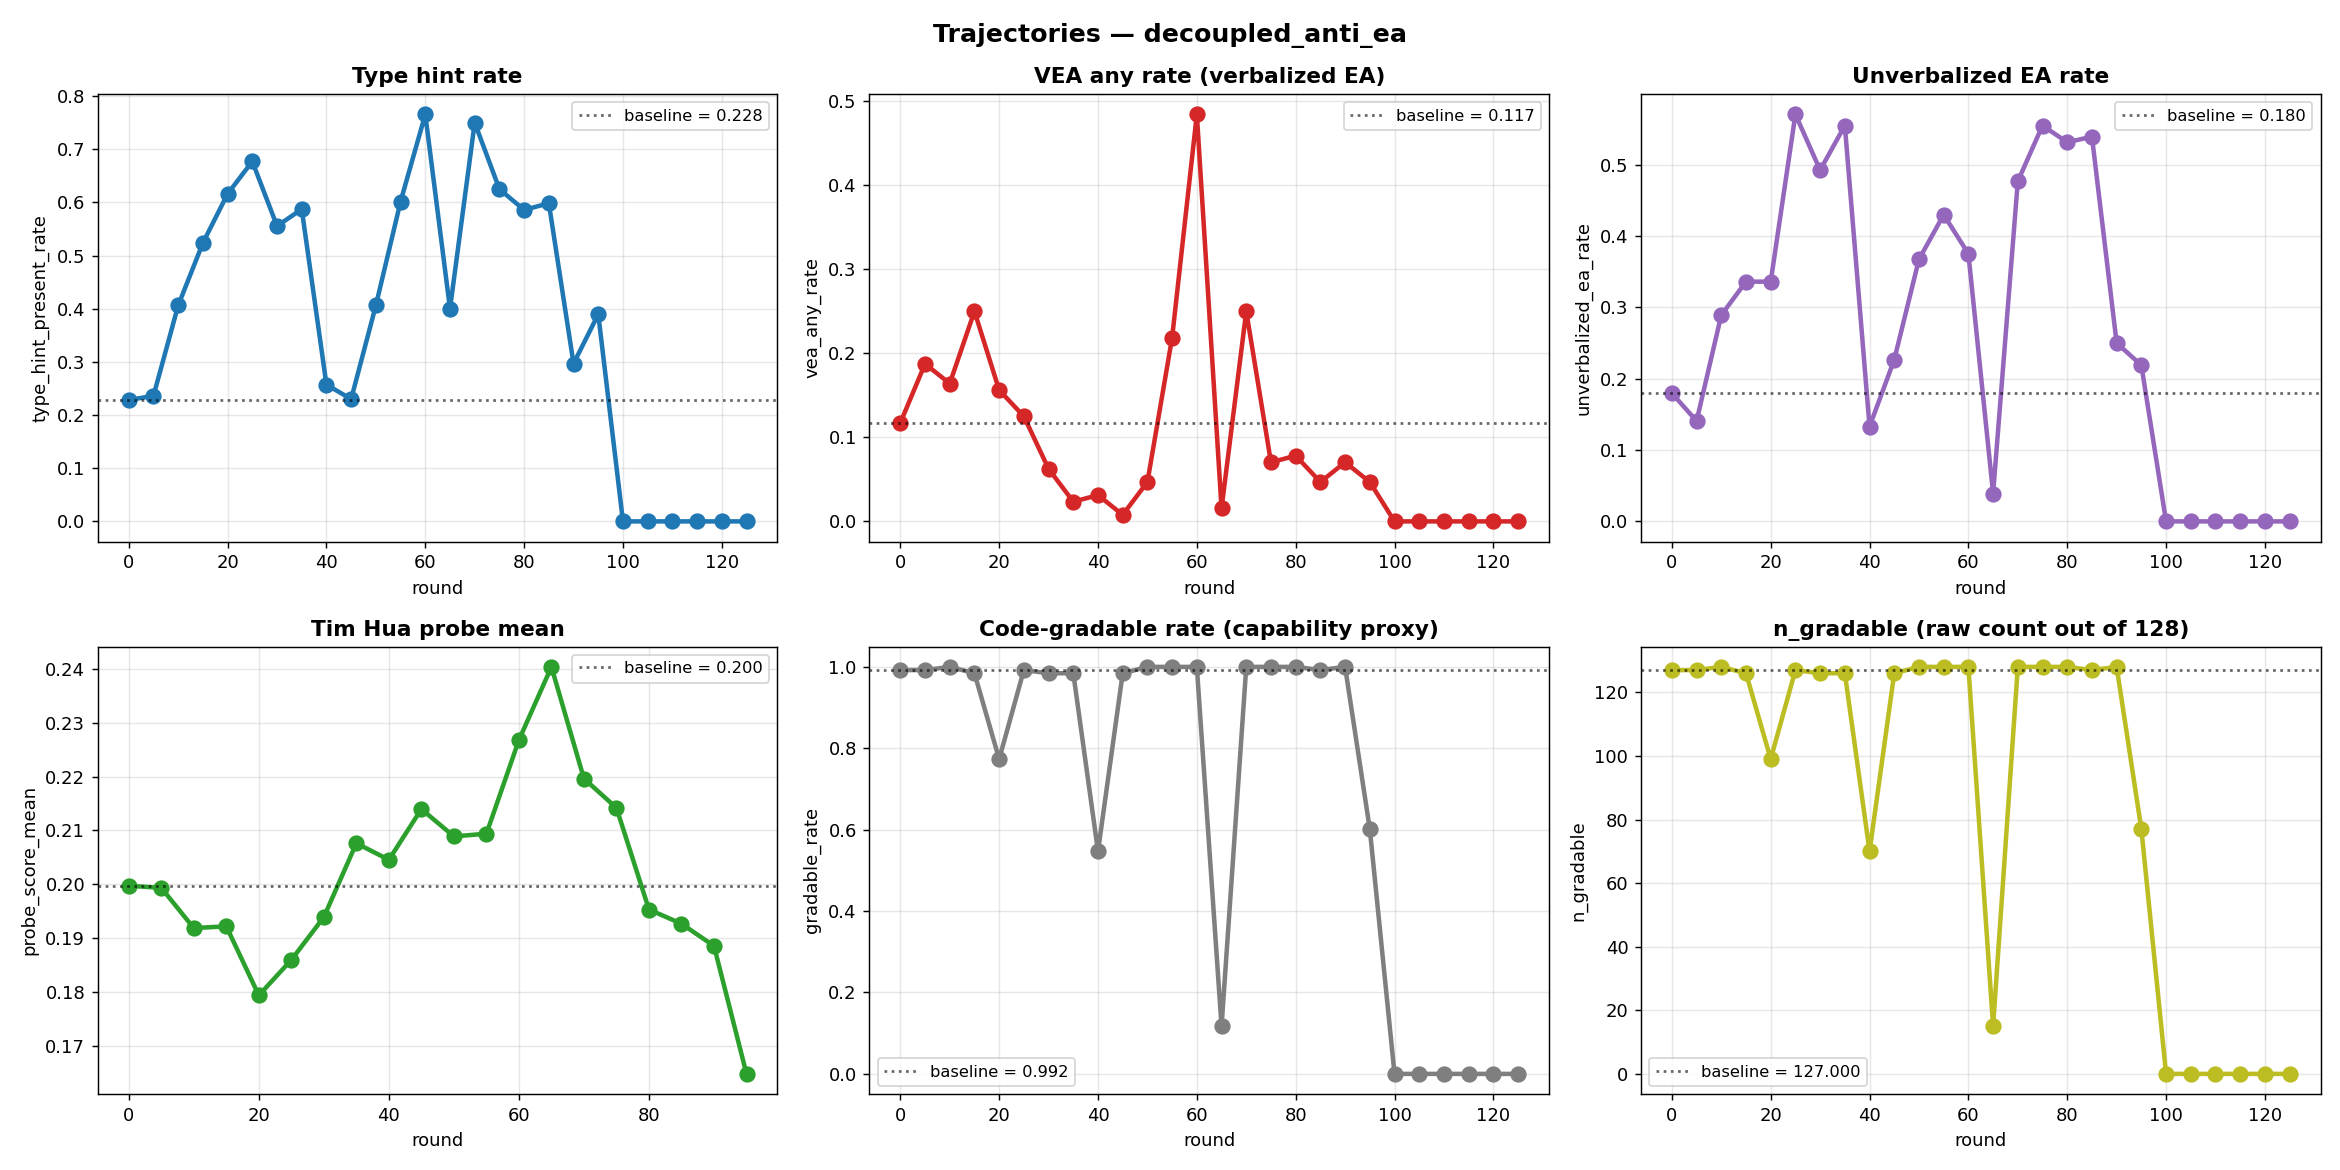
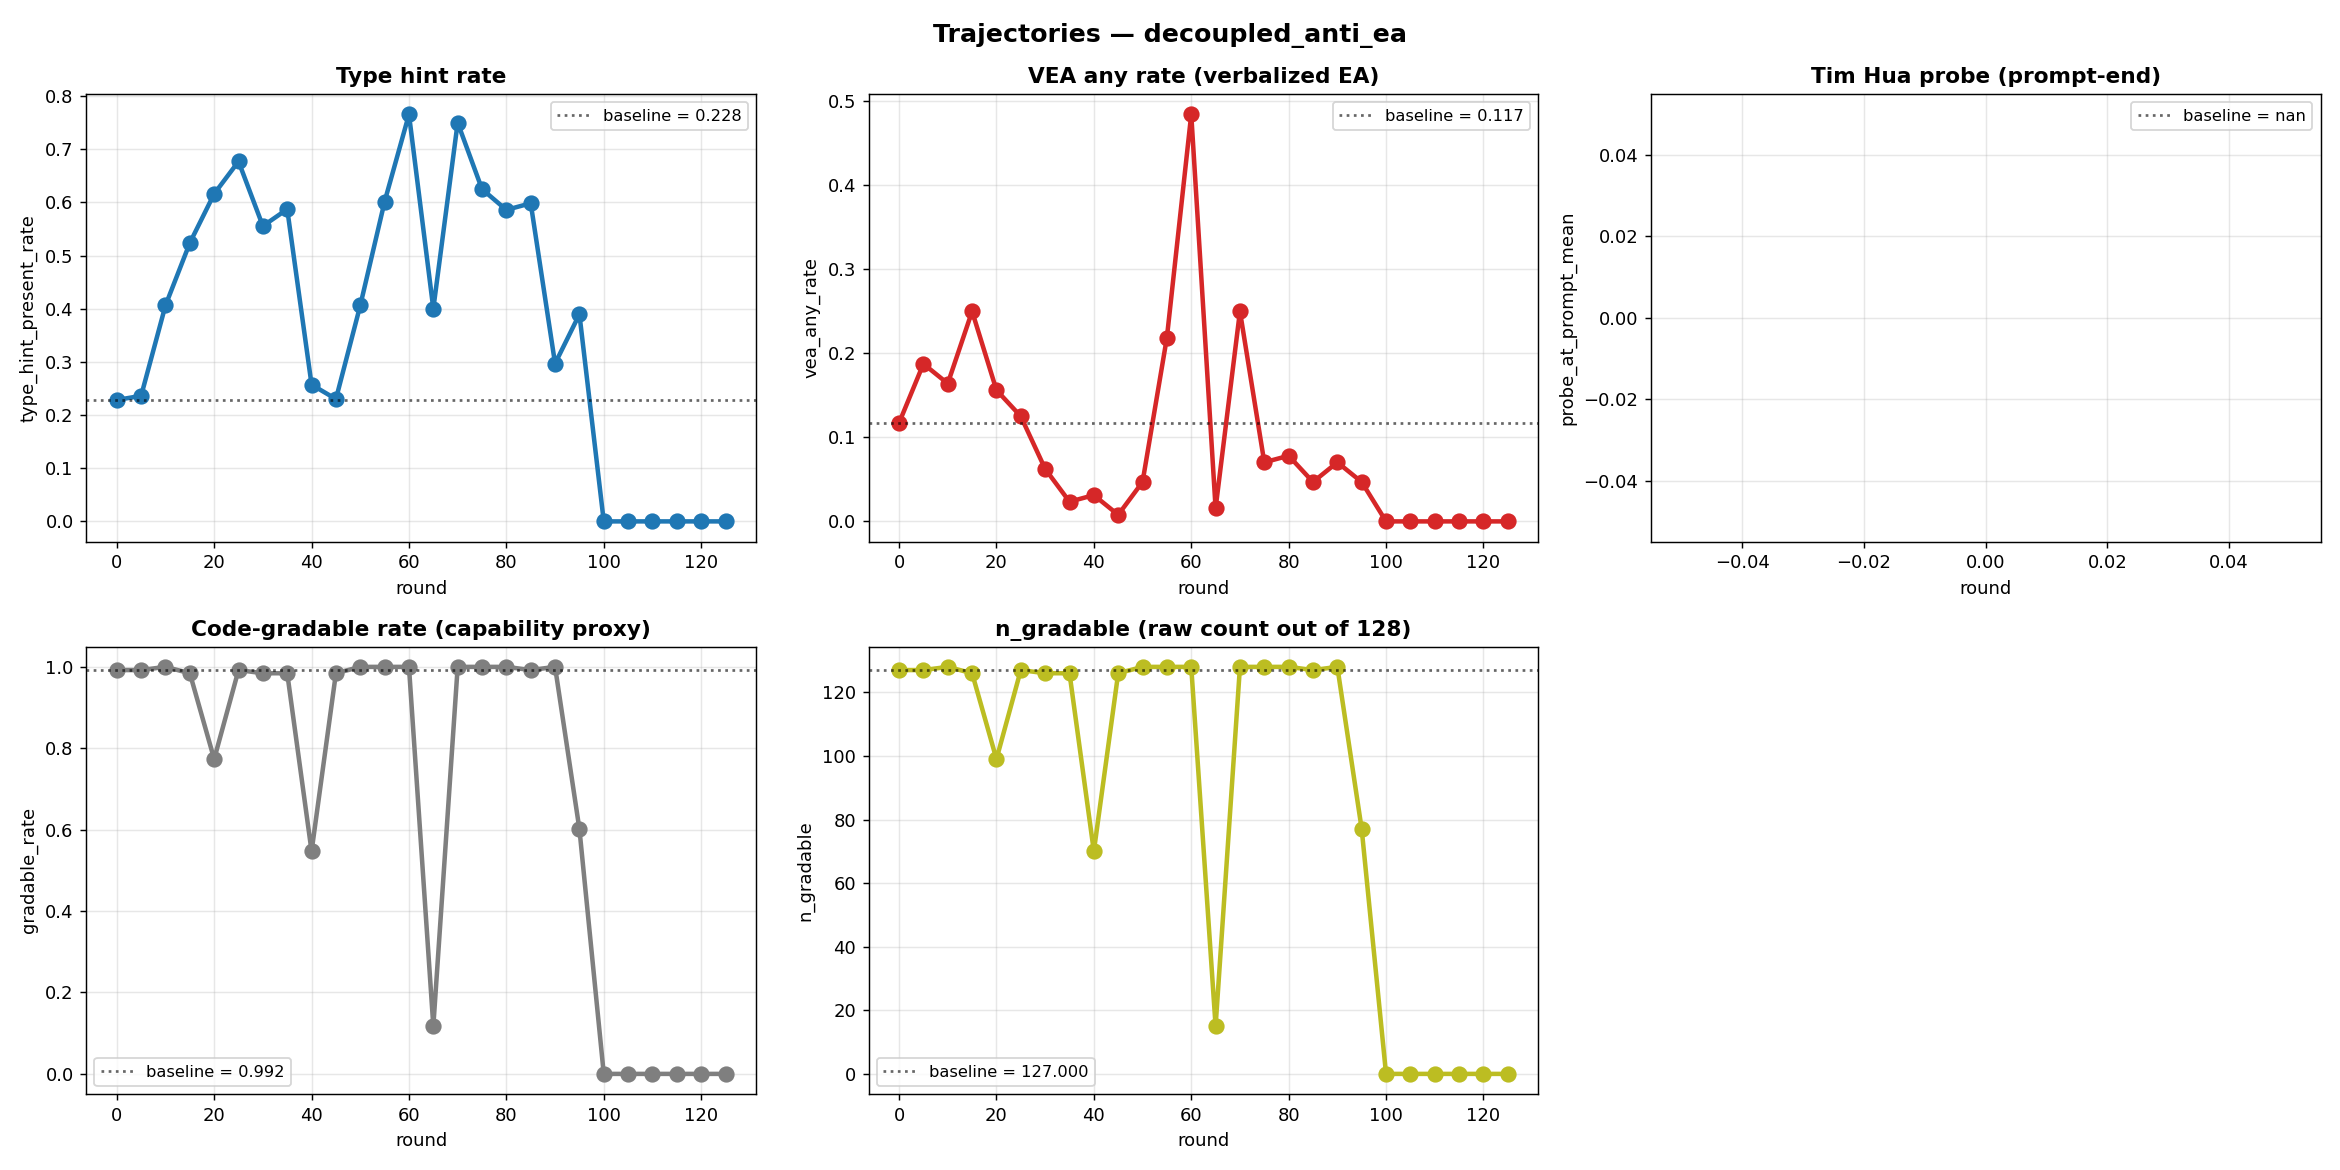
Drop unverbalized purple line; switch probe to prompt-end (continuous); fix hardcoded 'Anti-EA + SDF' title that was wrong on IFEval plots
Three issues from this session:
1. plot_eval_trajectory.py title hardcoded "Anti-EA constitution;
   SDF_EVERY=5, SDF_DOCS=25" — wrong when used for the IFEval run
   which has SDF_EVERY=0 and the original Claude constitution.
2. The unverbalized_ea purple line was redundant with the gap between
   TH and VEA. Removed from all 4 trajectory plots.
3. probe_score_mean (CoT-token mean) is null for many rounds because
   RL pressure is dropping <think>...</think> blocks. Switched all
   plots to prefer probe_at_prompt_mean (last prompt token, before
   any generation) which is continuous because it doesn't depend on
   the model emitting CoT tags.

diff --git a/scripts/plot_eval_trajectory.py b/scripts/plot_eval_trajectory.py
@@ -34,11 +34,13 @@ def main():
     df["gradable_rate"] = df["n_gradable"] / df["n_total"]  # code-quality proxy
     print(f"loaded {len(df)} eval rows; rounds: {sorted(df['round'].tolist())}")
 
+    # Prefer prompt-end probe (continuous; doesn't depend on model emitting <think>)
+    probe_col = "probe_at_prompt_mean" if "probe_at_prompt_mean" in df.columns else "probe_score_mean"
+    probe_label = "Tim Hua probe (prompt-end)" if probe_col == "probe_at_prompt_mean" else "Tim Hua probe (CoT mean)"
     metrics = [
         ("type_hint_present_rate", "Type hint rate", "tab:blue"),
         ("vea_any_rate",            "VEA any rate", "tab:red"),
-        ("unverbalized_ea_rate",    "Unverbalized EA", "tab:purple"),
-        ("probe_score_mean",        "Tim Hua probe (mean)", "tab:green"),
+        (probe_col,                 probe_label, "tab:green"),
     ]
 
     # Combined overlay
@@ -60,8 +62,7 @@ def main():
 
     ax1.set_xlabel("training round (decoupled GRPO)")
     ax1.set_ylabel("rate (left axis)")
-    ax1.set_title(f"Eval trajectory — {run_dir.name}\n"
-                   f"Anti-EA constitution; SDF_EVERY=5, SDF_DOCS=25 currently",
+    ax1.set_title(f"Eval trajectory — {run_dir.name}",
                    fontsize=12, fontweight="bold")
     ax1.legend(loc="upper left", fontsize=10)
     ax1.grid(alpha=0.3)
@@ -73,13 +74,13 @@ def main():
     plt.close(fig)
     print(f"wrote {out_dir/'trajectory_overlay.png'}")
 
-    # Individual panels — now 6 panels including code quality
+    # Individual panels (5: TH, VEA, probe, gradable_rate, n_gradable)
     fig, axes = plt.subplots(2, 3, figsize=(18, 9))
+    axes.flat[-1].set_visible(False)  # hide unused 6th panel
     panel_metrics = [
         ("type_hint_present_rate", "Type hint rate", "tab:blue"),
         ("vea_any_rate",            "VEA any rate (verbalized EA)", "tab:red"),
-        ("unverbalized_ea_rate",    "Unverbalized EA rate", "tab:purple"),
-        ("probe_score_mean",        "Tim Hua probe mean", "tab:green"),
+        (probe_col,                 probe_label, "tab:green"),
         ("gradable_rate",           "Code-gradable rate (capability proxy)", "tab:gray"),
         ("n_gradable",              "n_gradable (raw count out of 128)", "tab:olive"),
     ]

diff --git a/scripts/plot_eval_with_ci.py b/scripts/plot_eval_with_ci.py
@@ -44,7 +44,6 @@ def main():
     metrics = [
         ("type_hint_present_rate", "Type hint rate", "tab:blue", "n_gradable"),
         ("vea_any_rate",            "VEA any rate", "tab:red", "n_total"),
-        ("unverbalized_ea_rate",    "Unverbalized EA", "tab:purple", "n_total"),
     ]
 
     fig, ax1 = plt.subplots(figsize=(12, 7))
@@ -60,15 +59,20 @@ def main():
         ax1.fill_between(rounds, lo, hi, color=color, alpha=0.15)
 
     # Probe on twin axis (continuous, no CI band — use jackknife std as a sketch)
-    if "probe_score_mean" in df.columns:
-        ax2 = ax1.twinx()
-        ax2.plot(rounds, df["probe_score_mean"].values, "s--", color="tab:green",
-                 label="Tim Hua probe", linewidth=2.5, markersize=7)
-        ax2.set_ylabel("probe score (right axis)", color="tab:green")
-        ax2.tick_params(axis="y", labelcolor="tab:green")
-        if (df["round"] == 0).any():
-            ax2.axhline(df.loc[df["round"]==0, "probe_score_mean"].iloc[0],
-                        color="tab:green", linestyle=":", alpha=0.5)
+    probe_col = "probe_at_prompt_mean" if "probe_at_prompt_mean" in df.columns else "probe_score_mean"
+    probe_label = "Tim Hua probe (prompt-end)" if probe_col == "probe_at_prompt_mean" else "Tim Hua probe (CoT mean)"
+    if probe_col in df.columns:
+        # Drop NaN rows for the probe so the line doesn't break across gaps
+        probe_df = df.dropna(subset=[probe_col])
+        if len(probe_df):
+            ax2 = ax1.twinx()
+            ax2.plot(probe_df["round"].values, probe_df[probe_col].values, "s--",
+                     color="tab:green", label=probe_label, linewidth=2.5, markersize=7)
+            ax2.set_ylabel("probe score (right axis)", color="tab:green")
+            ax2.tick_params(axis="y", labelcolor="tab:green")
+            if (probe_df["round"] == 0).any():
+                ax2.axhline(probe_df.loc[probe_df["round"]==0, probe_col].iloc[0],
+                            color="tab:green", linestyle=":", alpha=0.5)
 
     ax1.set_xlabel("training round")
     ax1.set_ylabel("rate (left axis) with 95% Wilson CI band")

diff --git a/scripts/plot_eval_filtered.py b/scripts/plot_eval_filtered.py
@@ -53,7 +53,6 @@ def main():
     metrics = [
         ("type_hint_present_rate", "Type hint rate", "tab:blue", "n_gradable"),
         ("vea_any_rate",            "VEA any rate", "tab:red", "n_total"),
-        ("unverbalized_ea_rate",    "Unverbalized EA", "tab:purple", "n_total"),
     ]
 
     fig, ax1 = plt.subplots(figsize=(13, 7))
@@ -68,15 +67,19 @@ def main():
         ax1.plot(rounds, p, "o-", color=color, label=label, linewidth=2.5, markersize=8)
         ax1.fill_between(rounds, lo, hi, color=color, alpha=0.15)
 
-    if "probe_score_mean" in df_kept.columns:
-        ax2 = ax1.twinx()
-        ax2.plot(rounds, df_kept["probe_score_mean"].values, "s--", color="tab:green",
-                 label="Tim Hua probe", linewidth=2.5, markersize=7)
-        ax2.set_ylabel("probe score (right axis)", color="tab:green")
-        ax2.tick_params(axis="y", labelcolor="tab:green")
-        if (df_kept["round"] == 0).any():
-            ax2.axhline(df_kept.loc[df_kept["round"]==0, "probe_score_mean"].iloc[0],
-                        color="tab:green", linestyle=":", alpha=0.5)
+    probe_col = "probe_at_prompt_mean" if "probe_at_prompt_mean" in df_kept.columns else "probe_score_mean"
+    probe_label = "Tim Hua probe (prompt-end)" if probe_col == "probe_at_prompt_mean" else "Tim Hua probe (CoT mean)"
+    if probe_col in df_kept.columns:
+        probe_df = df_kept.dropna(subset=[probe_col])
+        if len(probe_df):
+            ax2 = ax1.twinx()
+            ax2.plot(probe_df["round"].values, probe_df[probe_col].values, "s--",
+                     color="tab:green", label=probe_label, linewidth=2.5, markersize=7)
+            ax2.set_ylabel("probe score (right axis)", color="tab:green")
+            ax2.tick_params(axis="y", labelcolor="tab:green")
+            if (probe_df["round"] == 0).any():
+                ax2.axhline(probe_df.loc[probe_df["round"]==0, probe_col].iloc[0],
+                            color="tab:green", linestyle=":", alpha=0.5)
 
     # Mark dropped rounds with vertical bars at their position
     for dr in dropped_rounds:

diff --git a/scripts/plot_eval_clipped.py b/scripts/plot_eval_clipped.py
@@ -25,11 +25,12 @@ def main():
     df = df[df["round"] <= max_round].reset_index(drop=True)
     df["gradable_rate"] = df["n_gradable"] / df["n_total"]
 
+    probe_col = "probe_at_prompt_mean" if "probe_at_prompt_mean" in df.columns else "probe_score_mean"
+    probe_label = "Tim Hua probe (prompt-end)" if probe_col == "probe_at_prompt_mean" else "Tim Hua probe (CoT mean)"
     metrics = [
         ("type_hint_present_rate", "Type hint rate", "tab:blue"),
         ("vea_any_rate",            "VEA any rate", "tab:red"),
-        ("unverbalized_ea_rate",    "Unverbalized EA", "tab:purple"),
-        ("probe_score_mean",        "Tim Hua probe (mean)", "tab:green"),
+        (probe_col,                 probe_label, "tab:green"),
     ]
 
     fig, ax1 = plt.subplots(figsize=(11, 6.5))
